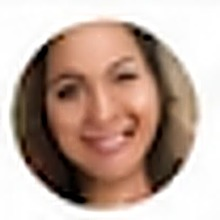
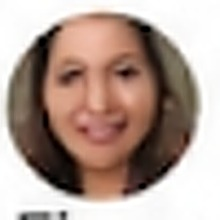
Corrige recorte dos avatares da tira de avaliação
Os crops anteriores estavam com as coordenadas da foto de perfil
mal medidas, cortando rosto e deixando texto do depoimento vazar na
borda. Troca duas fotos de origem por outras mais nítidas do mesmo
grupo de depoimentos e recorta todas com coordenadas conferidas
visualmente (grade de referência), centralizando o rosto no círculo.

Claude-Session: https://claude.ai/code/session_01DQEB665EeRFUjtday7QKUE

diff --git a/index.html b/index.html
@@ -256,10 +256,10 @@ src="https://www.facebook.com/tr?id=1109818678482541&ev=PageView&noscript=1"
     <div class="rating-strip">
       <div class="rating-avatars">
         <img src="assets/avatars/avatar-1.jpg" alt="Cláudia, aluna" loading="eager">
-        <img src="assets/avatars/avatar-2.jpg" alt="Patrícia, aluna" loading="eager">
-        <img src="assets/avatars/avatar-3.jpg" alt="Ivana, aluna" loading="eager">
-        <img src="assets/avatars/avatar-4.jpg" alt="Ana Paula, aluna" loading="eager">
-        <img src="assets/avatars/avatar-5.jpg" alt="Marcelo, aluno" loading="eager">
+        <img src="assets/avatars/avatar-2.jpg" alt="Renata, aluna" loading="eager">
+        <img src="assets/avatars/avatar-3.jpg" alt="Patrícia, aluna" loading="eager">
+        <img src="assets/avatars/avatar-4.jpg" alt="Marcelo, aluno" loading="eager">
+        <img src="assets/avatars/avatar-5.jpg" alt="Renata, aluna" loading="eager">
       </div>
       <span class="rating-text"><span class="stars">★★★★★</span> 4,9/5 · 369 avaliações</span>
     </div>
